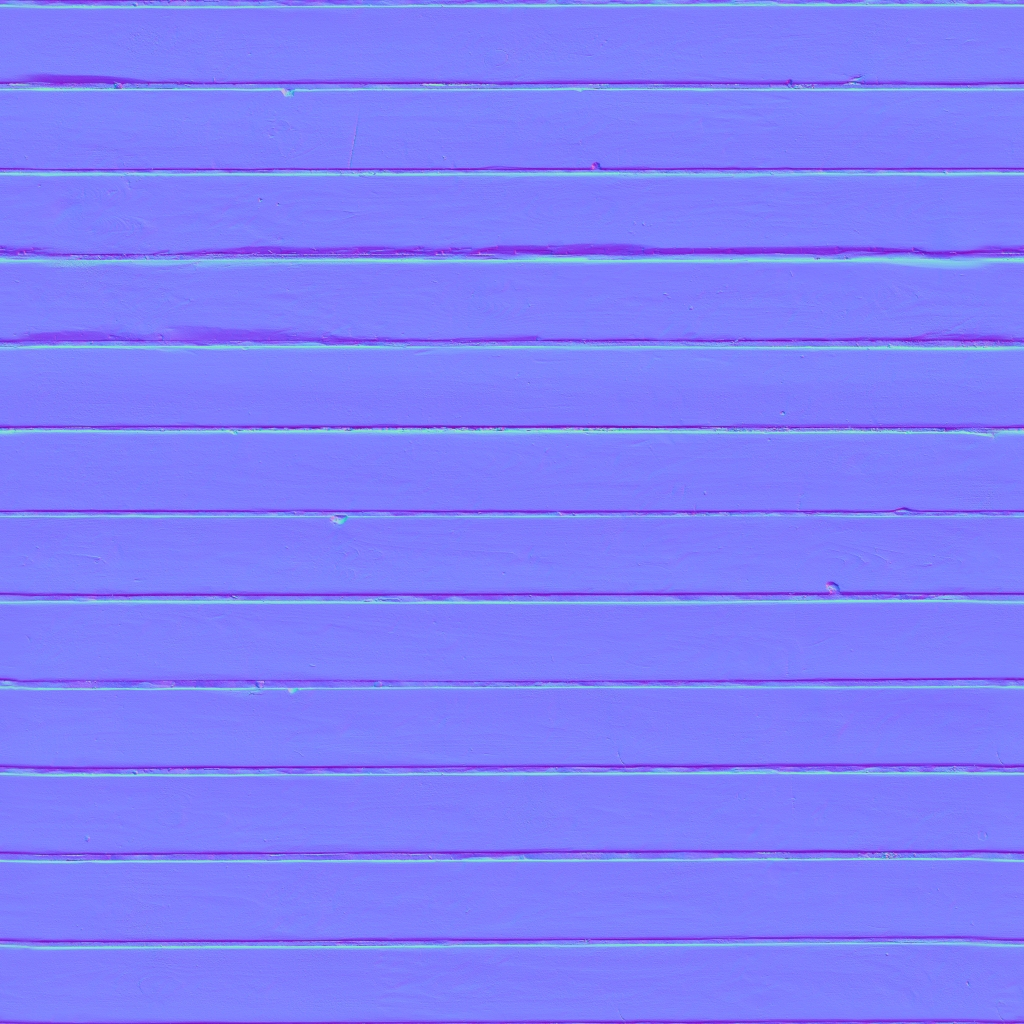
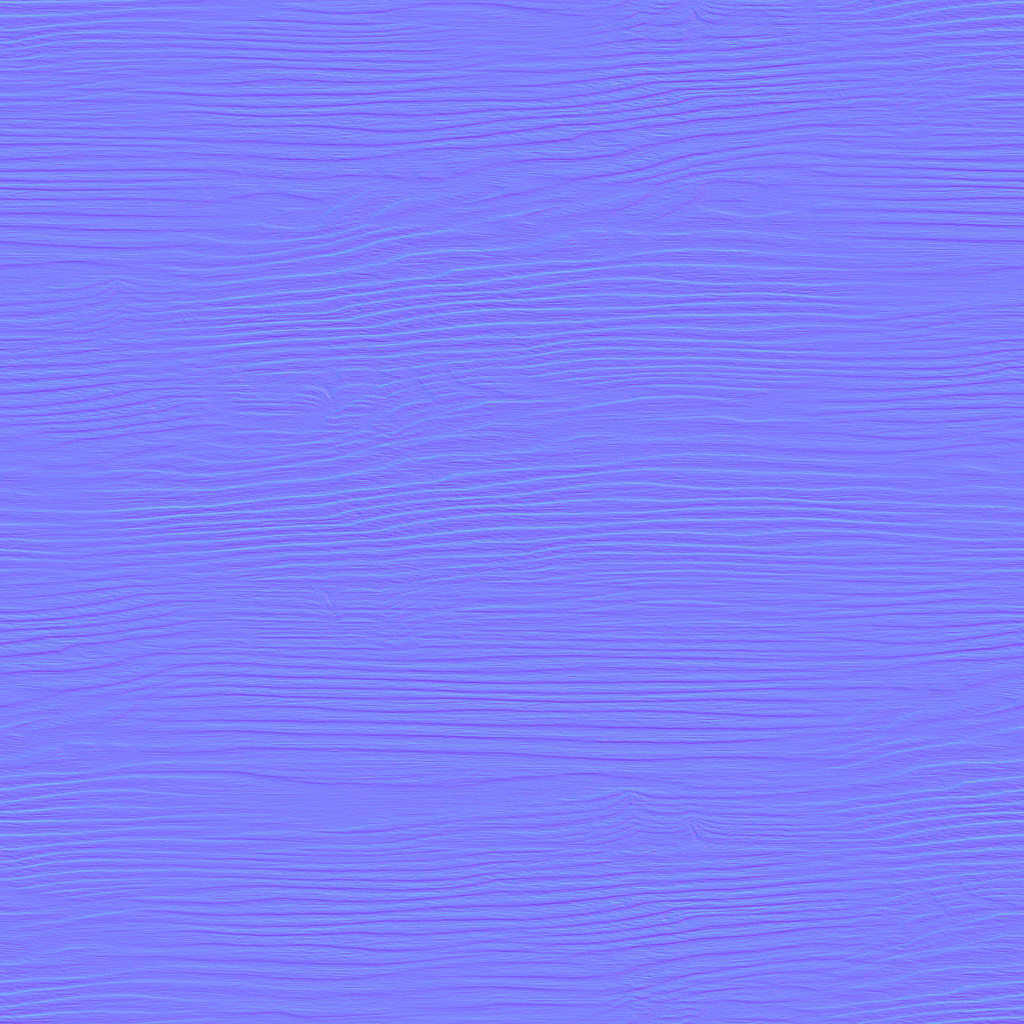
fix: swap to Wood049 maple texture, light grey background, vertical grain rotation

Changed region(s): [[0.0, 0.0, 1.0, 1.0]]

diff --git a/assets/cabinet-configurator.js b/assets/cabinet-configurator.js
@@ -57,7 +57,7 @@
     renderer.toneMapping = THREE.NoToneMapping;
 
     scene = new THREE.Scene();
-    scene.background = new THREE.Color(0x1c1c1c);
+    scene.background = new THREE.Color(0xddd9d4);
 
     // Build and assign the environment map (gives metallic handles reflections)
     try { scene.environment = buildEnvMap(); } catch (e) { /* env map optional */ }
@@ -95,7 +95,7 @@
     // Ground plane — receives cabinet shadow
     const ground = new THREE.Mesh(
       new THREE.PlaneGeometry(600, 600),
-      new THREE.MeshLambertMaterial({ color: 0x141414, transparent: true, opacity: 0.75 })
+      new THREE.MeshLambertMaterial({ color: 0xc8c4bf, transparent: true, opacity: 0.85 })
     );
     ground.rotation.x = -Math.PI / 2;
     ground.receiveShadow = true;
@@ -179,14 +179,18 @@
     if (isMaple && woodColorMap) {
       const colTex = woodColorMap.clone();
       colTex.needsUpdate = true;
-      colTex.repeat.set(repeatX, repeatY);
+      colTex.rotation = Math.PI / 2;
+      colTex.center.set(0.5, 0.5);
+      colTex.repeat.set(repeatY, repeatX);
       mat.map = colTex;
     }
 
     if (isMaple && woodNormalMap) {
       const normTex = woodNormalMap.clone();
       normTex.needsUpdate = true;
-      normTex.repeat.set(repeatX, repeatY);
+      normTex.rotation = Math.PI / 2;
+      normTex.center.set(0.5, 0.5);
+      normTex.repeat.set(repeatY, repeatX);
       mat.normalMap   = normTex;
       mat.normalScale = new THREE.Vector2(0.6, 0.6);
     }